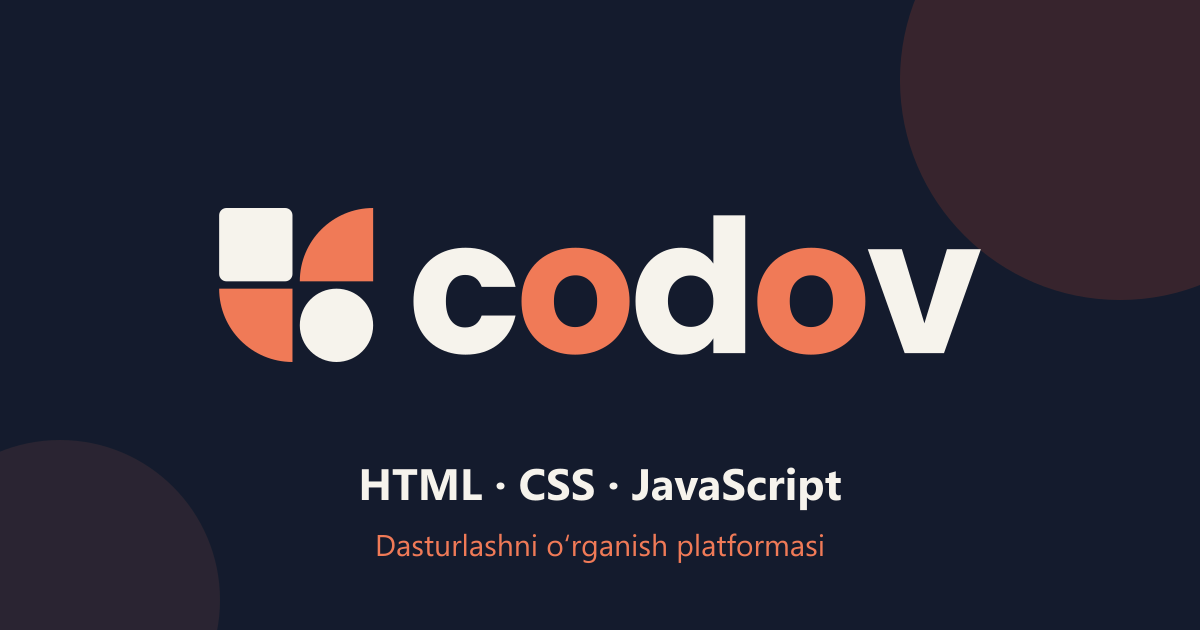
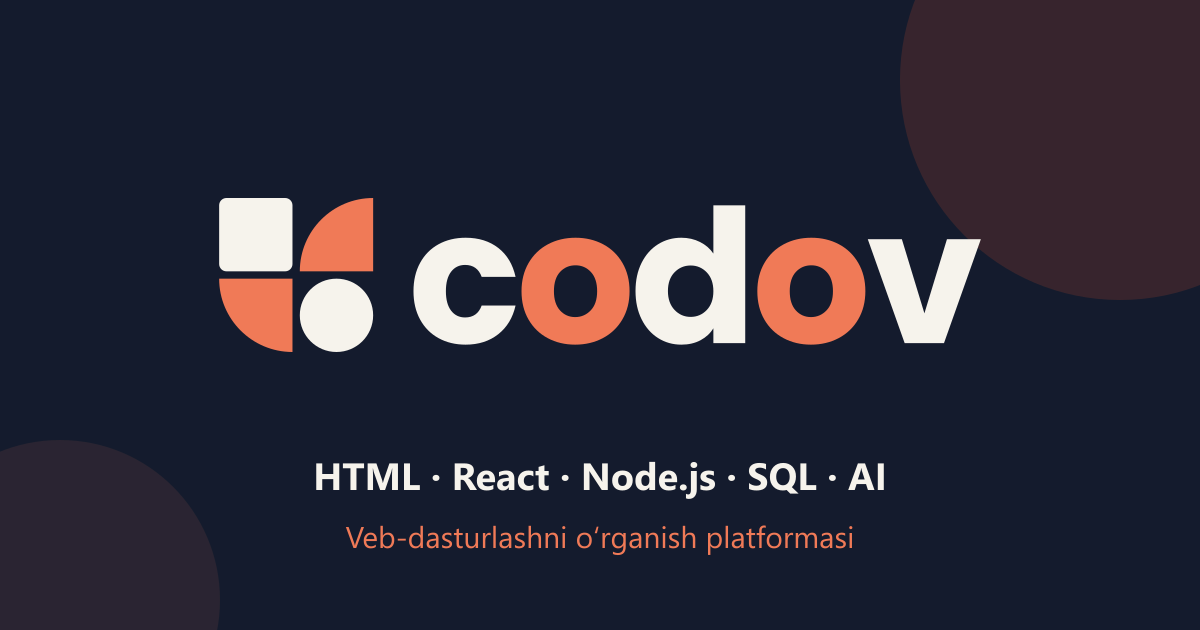
Landing: six study tracks, wider SEO texts
Web Basics, Frontend, Backend, Database, Tools and AI & Web with their
technologies; hero, description, keywords and preview image now cover the
whole program, not only HTML/CSS/JS.

diff --git a/src/i18n/dictionaries/ru.ts b/src/i18n/dictionaries/ru.ts
@@ -660,9 +660,9 @@ export const ru = {
   landing: {
     nav: { learn: "Программа", how: "Как учимся", parents: "Родителям", faq: "Вопросы", login: "Войти" },
     hero: {
-      badge: "Курсы веб-разработки для начинающих",
+      badge: "Курсы веб-разработки: от основ до ИИ",
       title: "Научитесь создавать сайты с нуля",
-      text: "HTML, CSS и JavaScript на практике: короткие уроки, задания в редакторе кода прямо в браузере и проверка каждой работы преподавателем и искусственным интеллектом.",
+      text: "HTML, CSS и JavaScript, затем React, Node.js, базы данных и искусственный интеллект — на практике: короткие уроки, задания в редакторе кода прямо в браузере и проверка каждой работы преподавателем и ИИ.",
       cta: "Записаться на курс",
       login: "Войти в кабинет",
       chips: ["Узбекский и русский языки", "Можно учиться с телефона", "Родители видят успехи"],
@@ -670,24 +670,15 @@ export const ru = {
       previewText: "Готово! Так выглядит ваш код.",
     },
     learn: {
-      title: "Что вы изучите",
-      subtitle: "Три языка, на которых построен любой сайт, — по шагам, от простого к сложному.",
+      title: "Направления",
+      subtitle: "Шесть направлений — от основ веба до приложений с искусственным интеллектом.",
       items: [
-        {
-          name: "HTML",
-          text: "Структура страницы: заголовки, текст, ссылки, картинки, списки, таблицы и формы.",
-          topics: ["Теги и атрибуты", "Семантическая вёрстка", "Формы и таблицы"],
-        },
-        {
-          name: "CSS",
-          text: "Внешний вид: цвета, шрифты, отступы, раскладка и адаптивность под телефон.",
-          topics: ["Селекторы и блочная модель", "Flexbox и Grid", "Адаптивный дизайн"],
-        },
-        {
-          name: "JavaScript",
-          text: "Живые страницы: кнопки, меню, формы с проверкой и работа с данными.",
-          topics: ["Переменные и функции", "События и DOM", "Логика и массивы"],
-        },
+        { name: "Web Basics", text: "Основа любого сайта: структура страницы, оформление и интерактивность.", topics: ["HTML", "CSS", "JavaScript"] },
+        { name: "Frontend", text: "Современные интерфейсы: компоненты, строгая типизация и быстрая вёрстка.", topics: ["React", "TypeScript", "Tailwind CSS"] },
+        { name: "Backend", text: "Серверная часть: создание API, обработка запросов и бизнес-логика.", topics: ["Node.js", "Express", "REST API"] },
+        { name: "Database", text: "Хранение данных: таблицы, связи между ними и SQL-запросы.", topics: ["MySQL", "SQL"] },
+        { name: "Tools", text: "Ежедневные инструменты разработчика: контроль версий, редактор и пакеты.", topics: ["Git", "GitHub", "VS Code", "npm"] },
+        { name: "AI & Web", text: "Подключаем искусственный интеллект к сайтам: внешние API и умные функции.", topics: ["APIs", "Gemini / OpenAI", "AI features"] },
       ],
     },
     features: {
@@ -738,7 +729,7 @@ export const ru = {
       phone: "Позвонить",
       soon: "Контакты для записи скоро появятся здесь.",
     },
-    footer: "Учимся HTML, CSS и JavaScript",
+    footer: "Учимся веб-разработке",
   },
 };
 

diff --git a/src/components/landing/Landing.tsx b/src/components/landing/Landing.tsx
@@ -10,6 +10,12 @@ import {
   Send,
   UserCheck,
   BookOpen,
+  Database,
+  Globe,
+  LayoutTemplate,
+  Server,
+  Sparkles,
+  Wrench,
   type LucideIcon,
 } from "lucide-react";
 import Link from "next/link";
@@ -24,7 +30,8 @@ import type { ThemeMode } from "@/lib/theme";
 type LandingProps = { t: Dictionary; locale: Locale; theme: ThemeMode | null };
 
 const FEATURE_ICONS: LucideIcon[] = [BookOpen, Code2, FlaskConical, Bot, UserCheck, MessageCircle];
-const LANGUAGE_COLORS = ["#E44D26", "#264DE4", "#D6A800"];
+/** Web Basics, Frontend, Backend, Database, Tools, AI & Web */
+const TRACK_ICONS: LucideIcon[] = [Globe, LayoutTemplate, Server, Database, Wrench, Sparkles];
 
 // Tells search engines what codov is (structured data, not shown on the page)
 const structuredData = {
@@ -35,7 +42,7 @@ const structuredData = {
   logo: `${SITE_URL}/icons/icon-512.png`,
   description: SITE_DESCRIPTION,
   areaServed: "UZ",
-  knowsAbout: ["HTML", "CSS", "JavaScript", "Web development"],
+  knowsAbout: ["HTML", "CSS", "JavaScript", "React", "TypeScript", "Tailwind CSS", "Node.js", "Express", "REST API", "MySQL", "SQL", "Git", "AI"],
   inLanguage: ["uz", "ru"],
 };
 
@@ -150,30 +157,30 @@ export function Landing({ t, locale, theme }: LandingProps) {
         <section id="learn" className="scroll-mt-20 px-4 py-20 md:px-6">
           <div className="mx-auto max-w-6xl">
             <SectionTitle title={l.learn.title} subtitle={l.learn.subtitle} />
-            <div className="grid gap-5 md:grid-cols-3">
-              {l.learn.items.map((item, index) => (
-                <article key={item.name} className="card flex flex-col">
-                  <div className="flex items-center gap-3">
-                    <span
-                      className="flex size-11 items-center justify-center rounded-xl font-mono text-sm font-extrabold text-white"
-                      style={{ background: LANGUAGE_COLORS[index] }}
-                    >
-                      {String(index + 1).padStart(2, "0")}
-                    </span>
-                    <h3 className="text-2xl font-extrabold">{item.name}</h3>
-                  </div>
-                  <p className="mt-4 text-muted">{item.text}</p>
-                  <ul className="mt-4 space-y-1.5 text-sm font-semibold">
-                    {item.topics.map((topic) => (
-                      <li key={topic} className="flex items-center gap-2">
-                        <CheckCircle2 size={16} className="shrink-0 text-primary" />
-                        {topic}
-                      </li>
-                    ))}
-                  </ul>
-                </article>
-              ))}
-            </div>
+            <ol className="grid gap-5 sm:grid-cols-2 lg:grid-cols-3">
+              {l.learn.items.map((item, index) => {
+                const Icon = TRACK_ICONS[index] ?? Code2;
+                return (
+                  <li key={item.name} className="card flex flex-col transition hover:-translate-y-0.5 hover:shadow-lg">
+                    <div className="flex items-start justify-between gap-3">
+                      <span className="flex size-12 items-center justify-center rounded-xl bg-primary-soft text-primary">
+                        <Icon size={24} />
+                      </span>
+                      <span className="font-mono text-3xl font-extrabold text-border">{String(index + 1).padStart(2, "0")}</span>
+                    </div>
+                    <h3 className="mt-4 text-2xl font-extrabold">{item.name}</h3>
+                    <p className="mt-2 flex-1 text-muted">{item.text}</p>
+                    <ul className="mt-5 flex flex-wrap gap-2">
+                      {item.topics.map((topic) => (
+                        <li key={topic} className="rounded-full border border-border bg-background px-3 py-1 font-mono text-xs font-bold">
+                          {topic}
+                        </li>
+                      ))}
+                    </ul>
+                  </li>
+                );
+              })}
+            </ol>
           </div>
         </section>
 

diff --git a/src/i18n/dictionaries/uz.ts b/src/i18n/dictionaries/uz.ts
@@ -662,9 +662,9 @@ export const uz: Dictionary = {
   landing: {
     nav: { learn: "Dastur", how: "Qanday o‘qiymiz", parents: "Ota-onalarga", faq: "Savollar", login: "Kirish" },
     hero: {
-      badge: "Boshlovchilar uchun veb-dasturlash kurslari",
+      badge: "Veb-dasturlash kurslari: asoslardan sun’iy intellektgacha",
       title: "Saytlar yaratishni noldan o‘rganing",
-      text: "HTML, CSS va JavaScript amalda: qisqa darslar, to‘g‘ridan-to‘g‘ri brauzerdagi kod muharririda topshiriqlar va har bir ishni o‘qituvchi hamda sun’iy intellekt tekshiradi.",
+      text: "HTML, CSS va JavaScript, keyin React, Node.js, ma’lumotlar bazalari va sun’iy intellekt — amalda: qisqa darslar, brauzerdagi kod muharririda topshiriqlar va har bir ishni o‘qituvchi hamda sun’iy intellekt tekshiradi.",
       cta: "Kursga yozilish",
       login: "Kabinetga kirish",
       chips: ["O‘zbek va rus tillarida", "Telefondan ham o‘qish mumkin", "Ota-onalar natijani ko‘radi"],
@@ -672,24 +672,15 @@ export const uz: Dictionary = {
       previewText: "Tayyor! Kodingiz shunday ko‘rinadi.",
     },
     learn: {
-      title: "Nimalarni o‘rganasiz",
-      subtitle: "Har qanday sayt quriladigan uchta til — oddiydan murakkabga, bosqichma-bosqich.",
+      title: "Yo‘nalishlar",
+      subtitle: "Oltita yo‘nalish — veb asoslaridan sun’iy intellektli ilovalargacha.",
       items: [
-        {
-          name: "HTML",
-          text: "Sahifa tuzilishi: sarlavhalar, matn, havolalar, rasmlar, ro‘yxatlar, jadvallar va formalar.",
-          topics: ["Teglar va atributlar", "Semantik tuzilma", "Formalar va jadvallar"],
-        },
-        {
-          name: "CSS",
-          text: "Tashqi ko‘rinish: ranglar, shriftlar, oraliqlar, joylashuv va telefonga moslashuv.",
-          topics: ["Selektorlar va blok modeli", "Flexbox va Grid", "Moslashuvchan dizayn"],
-        },
-        {
-          name: "JavaScript",
-          text: "Jonli sahifalar: tugmalar, menyular, tekshiruvli formalar va ma’lumotlar bilan ishlash.",
-          topics: ["O‘zgaruvchilar va funksiyalar", "Hodisalar va DOM", "Mantiq va massivlar"],
-        },
+        { name: "Web Basics", text: "Har qanday saytning poydevori: sahifa tuzilishi, dizayn va interaktivlik.", topics: ["HTML", "CSS", "JavaScript"] },
+        { name: "Frontend", text: "Zamonaviy interfeyslar: komponentlar, qat’iy tiplar va tezkor dizayn.", topics: ["React", "TypeScript", "Tailwind CSS"] },
+        { name: "Backend", text: "Server tomoni: API yaratish, so‘rovlarni qayta ishlash va biznes-mantiq.", topics: ["Node.js", "Express", "REST API"] },
+        { name: "Database", text: "Ma’lumotlarni saqlash: jadvallar, ular orasidagi bog‘lanishlar va SQL so‘rovlari.", topics: ["MySQL", "SQL"] },
+        { name: "Tools", text: "Dasturchining kundalik vositalari: versiyalar nazorati, muharrir va paketlar.", topics: ["Git", "GitHub", "VS Code", "npm"] },
+        { name: "AI & Web", text: "Saytlarga sun’iy intellektni ulaymiz: tashqi API va aqlli funksiyalar.", topics: ["APIs", "Gemini / OpenAI", "AI features"] },
       ],
     },
     features: {
@@ -740,6 +731,6 @@ export const uz: Dictionary = {
       phone: "Qo‘ng‘iroq qilish",
       soon: "Yozilish uchun kontaktlar tez orada shu yerda bo‘ladi.",
     },
-    footer: "HTML, CSS va JavaScriptni o‘rganamiz",
+    footer: "Veb-dasturlashni o‘rganamiz",
   },
 };

diff --git a/src/lib/site.ts b/src/lib/site.ts
@@ -1,10 +1,10 @@
 // Public address and texts for search engines and link previews.
 export const SITE_URL = "https://www.codov.uz";
-export const SITE_TITLE = "codov — HTML, CSS va JavaScript o‘rganish platformasi";
+export const SITE_TITLE = "codov — veb-dasturlashni o‘rganish platformasi";
 export const SITE_DESCRIPTION =
-  "codov — veb-dasturlashni noldan o‘rganish platformasi: HTML, CSS va JavaScript darslari, kod muharriri, " +
-  "topshiriqlar, sun’iy intellekt yordamida tekshirish va ota-onalar uchun nazorat. " +
-  "Курсы веб-разработки: HTML, CSS, JavaScript с практикой и проверкой заданий.";
+  "codov — veb-dasturlashni noldan o‘rganish platformasi: HTML, CSS, JavaScript, React, TypeScript, Node.js, " +
+  "SQL, Git va sun’iy intellekt. Darslar, kod muharriri, topshiriqlar va o‘qituvchi tekshiruvi. " +
+  "Курсы веб-разработки: от HTML и CSS до React, Node.js, баз данных и ИИ — с практикой и проверкой заданий.";
 
 /** Contacts on the public page; empty values are hidden (fill in to show the buttons). */
 export const CONTACTS = {

diff --git a/src/app/layout.tsx b/src/app/layout.tsx
@@ -29,12 +29,18 @@ export const metadata: Metadata = {
   // Google ignores keywords, but some other search engines and catalogs still read them
   keywords: [
     "codov",
+    "veb-dasturlash kurslari",
     "HTML o‘rganish",
     "CSS darslari",
     "JavaScript kurslari",
     "dasturlash kurslari",
     "veb-dasturlash",
     "frontend kurs",
+    "backend kurs",
+    "React kurslari",
+    "Node.js o‘rganish",
+    "SQL darslari",
+    "sun’iy intellekt dasturlash",
     "dasturlash Toshkent",
     "IT kurslar O‘zbekiston",
     "курсы HTML",
@@ -43,6 +49,9 @@ export const metadata: Metadata = {
     "обучение программированию Ташкент",
     "веб-разработка для начинающих",
     "frontend курсы Узбекистан",
+    "курсы React",
+    "курсы Node.js",
+    "курсы программирования с ИИ",
   ],
   openGraph: {
     type: "website",
